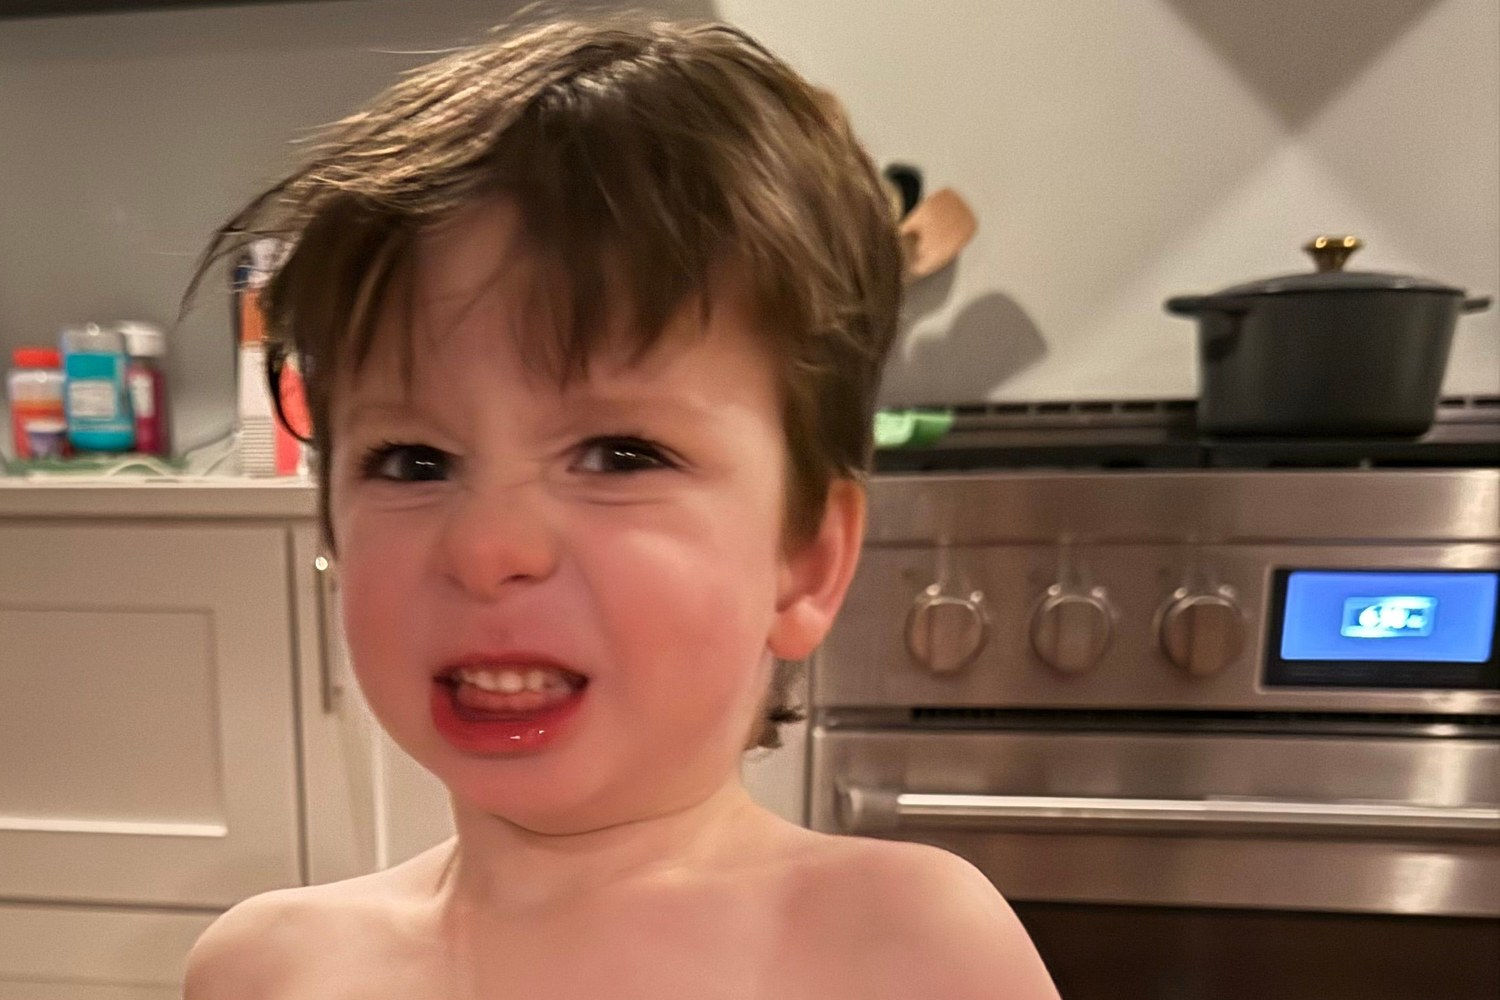
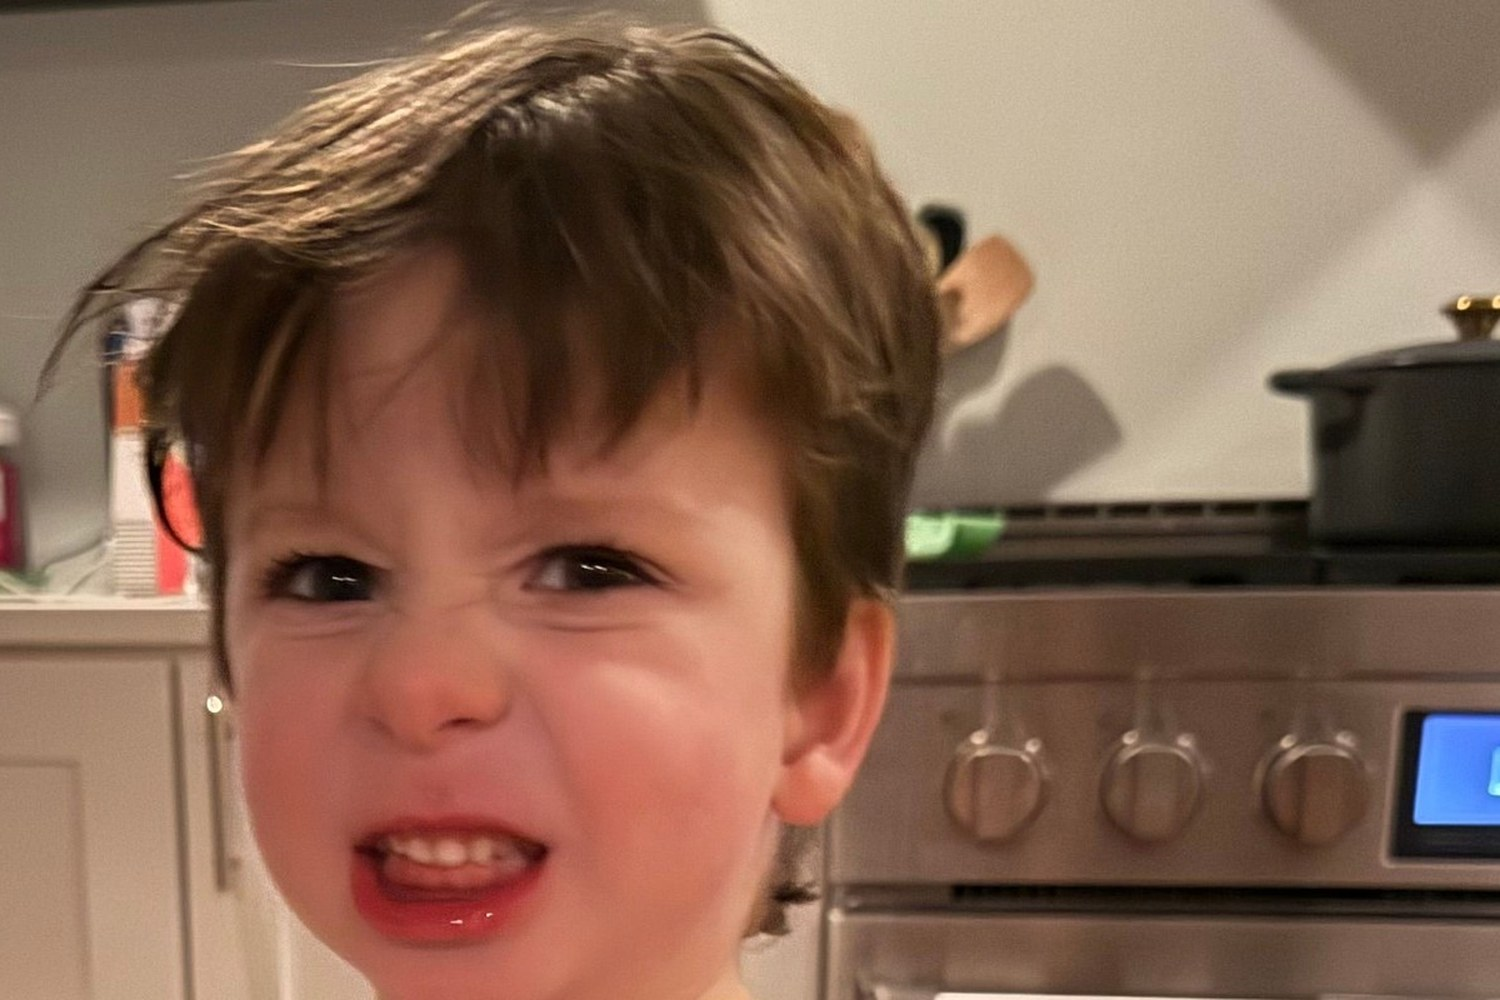
Nov 21 fixes: tighter drafts (qc quote and Niagara warnings), photo rule and re-cropped covers, stray named photo removed, form nudge
Claude-Session: https://claude.ai/code/session_01NmqwBVGBBmhPufvLAyoqtn

diff --git a/2026/10/24/index.html b/2026/10/24/index.html
@@ -20,7 +20,7 @@
   <div class="tile urg"><div class="v">10</div><div class="k">Days to Election Day</div></div>
 </div>
 <div class="plate-wrap"><div class="frame"><span class="tick tl"></span><span class="tick tr"></span><span class="tick bl"></span><span class="tick br"></span>
-<img src="/2026/10/24/plate.jpg?v=074aa30c" alt="A grinning little boy and a smiling man in glasses in a hot tub against a weathered wood wall"></div>
+<img src="/2026/10/24/plate.jpg?v=50ada00a" alt="A grinning little boy and a smiling man in glasses in a hot tub against a weathered wood wall"></div>
 <div class="plate-cap">Plate I &middot; The Family Album</div>
 <div class="plate-sub">Hot tub buddies</div></div>
 <div class="dbl-tight"><div class="a"></div><div class="b"></div></div>

diff --git a/2026/11/19/index.html b/2026/11/19/index.html
@@ -25,7 +25,7 @@
   <div class="tile urg"><div class="v">7</div><div class="k">Days to Thanksgiving</div></div>
 </div>
 <div class="plate-wrap"><div class="frame"><span class="tick tl"></span><span class="tick tr"></span><span class="tick bl"></span><span class="tick br"></span>
-<img src="/2026/11/19/plate.jpg?v=1bd27346" alt="A small boy in a kitchen scrunching up his face"></div>
+<img src="/2026/11/19/plate.jpg?v=e3ec82a3" alt="A small boy in a kitchen scrunching up his face"></div>
 <div class="plate-cap">Plate I &middot; The Family Album</div>
 <div class="plate-sub">An opinion, firmly held. Photo by Garret</div></div>
 <div class="part"><span>The News</span></div>

diff --git a/2026/09/14/index.html b/2026/09/14/index.html
@@ -21,7 +21,7 @@
 </div>
 <div class="dbl-tight"><div class="a"></div><div class="b"></div></div>
 <div class="plate-wrap"><div class="frame"><span class="tick tl"></span><span class="tick tr"></span><span class="tick bl"></span><span class="tick br"></span>
-<img src="/2026/09/14/plate.jpg?v=9b5b8a27" alt="Plate I"></div>
+<img src="/2026/09/14/plate.jpg?v=eee4523b" alt="Plate I"></div>
 <div class="plate-cap">Plate I &middot; The Family Album</div>
 <div class="plate-sub">A scone, held with both hands, most of it accounted for.</div></div>
 <h2 class="sec"><span class="o">&#9825;</span>Family Today<span class="o">&#9825;</span></h2>

diff --git a/tools/qc.py b/tools/qc.py
@@ -24,6 +24,26 @@ if ed:
         if 'class="bigtemp"' in s: fails.append('LAYOUT: no big temperature in the Weather Glass (the tile has it)')
         if '<span class="o">' in s.split('<h2 class="sec">',1)[-1].split('<div class="colo">')[0]: fails.append('LAYOUT: section heads are plain, no ornament spans')
         if 0 <= s.find('The Weather Glass') < s.find('The National Wire'): fails.append('LAYOUT: The News comes before The Almanac')
+    # Nov 21 (Garret: "do them all"): quotes and Niagara coverage, checked against the morning feed. Warnings only.
+    try:
+        _news = json.load(open(os.path.join(os.path.dirname(os.path.abspath(__file__)), '..', 'data', 'news.json')) if os.path.exists(os.path.join(os.path.dirname(os.path.abspath(__file__)), '..', 'data', 'news.json')) else open('site/data/news.json'))
+        _norm = lambda t: re.sub(r'\s+', ' ', re.sub(r'<[^>]+>', '', t).replace('&#8217;', "'").replace('&rsquo;', "'").replace('\u2019', "'").replace('\u2018', "'").replace('&amp;', '&').replace('\u201c', '"').replace('\u201d', '"')).lower().strip()
+        _bodies = _norm(' '.join((it.get('body') or '') + ' ' + it.get('title', '') for sec in _news['sections'].values() for it in sec))
+        _fam = s.split('From the Group Chat', 1)[-1][:600] if 'From the Group Chat' in s else ''
+        for q in [q for para in re.findall(r'<p[^>]*>(.*?)</p>|<div class="pull">(.*?)<br>', s, re.S) for t in para for q in re.findall(r'"([^"\n]+?)"', re.sub(r'<[^>]+>', '', t).replace('&quot;', '"').replace('\u201c', '"').replace('\u201d', '"'))]:
+            if len(q) < 25: continue
+            frag = _norm(q).strip(' .,')
+            if frag[:40] and frag[:40] in _norm(_fam): continue
+            _parts = [x.strip(' .,') for x in re.split(r'\.\.\.|\u2026', frag) if len(x.strip(' .,')) >= 10]
+            if not all(x[:40] in _bodies for x in _parts):
+                warns.append(f'QUOTE NOT IN FEED (check it word for word against the source): "{q[:70]}"')
+        _hw = s[s.find('The Home Wire'):s.find('<h2', s.find('The Home Wire') + 20)]
+        if not re.search(r'Niagara|Tonawanda|Lockport|Lewiston|Wheatfield', _hw):
+            _cut = (datetime.datetime.combine(dt, datetime.time(10)) - datetime.timedelta(hours=48)).isoformat()
+            _hits = [it['title'] for it in _news['sections'].get('local', []) if it.get('published', '') >= _cut and re.search(r'Niagara|Tonawanda|Lockport|Lewiston|Wheatfield', it['title'] + ' ' + (it.get('body') or '')[:600])]
+            if _hits: warns.append(f'NIAGARA: no Niagara County item in the Home Wire, but the feed has {len(_hits)}: ' + ' | '.join(h[:60] for h in _hits[:4]))
+    except Exception as _e:
+        warns.append(f'feed checks skipped: {_e}')
     # riddle: the answer must not have run before (Nov 12: an umbrella repeat got out)
     import glob as _g
     def _ans(html):

diff --git a/CLAUDE.md b/CLAUDE.md
@@ -49,6 +49,13 @@ Photos from other sources (e.g. ESPN, a police department) get credited in the c
 - **Never state a time or a number you did not look up.** Check `git log` for times; cut any clause without a source.
 - **Oct 4:** the dawn strip once used 3 a.m. temperatures. Dawn temps come from `forecast.json` → `towns[*].observation` (temp_f, text, ~6:45 a.m.).
 - **Nov 21:** Dunkirk's airport station (KDKK) reported sky but no temperature all morning, and the paper ran a dash; Garret asked for a number. When a town's observation has `temp_f` null, the cell runs that town's own NWS forecast low for the morning (the Overnight period), with the small line reading "forecast low" above the high. Never a dash, never another city's reading passed off as the town's.
+- **Nov 21, Garret: "What else could you be doing better... Do them all."** Standing fixes:
+  - **Tighter first drafts.** Before the review, check every quote word for word against its `body` and every attribution against the item's `source`; use the source's own verb strength ("said", not "admitted"). qc.py now warns on any quote of 25+ characters it can't find in news.json and on a Home Wire with no Niagara County item when the feed has one. Treat each warning as a fix or a deliberate call noted in the qc file.
+  - **Fix it before he sees it.** A gap (a dash for a missing number), a weak photo, a section that reads thin: fix it or hold it. Don't ship it and don't send him something you can see is poor; tell him only when a decision is his.
+  - **Do the editorial work unasked; ask before new machinery.** Features, graphics, covers and prep are the job. New feeds, workflows, scheduled tasks or pages need his OK first.
+  - **Short, plain messages.** One idea per line, no process talk.
+  - **Niagara first.** North Tonawanda, Tonawanda, Lockport and Niagara County get a real look every morning (Niagara Gazette and Lockport Journal are in the feed); run a Niagara item whenever there is a solid one.
+  - **Children's photos on public pages.** No shirtless or undressed child in a published cover: crop to head and shoulders, or don't run it. (Covers from Sep 14, Oct 24 and Nov 19 were re-cropped Nov 21.) Photos never sit in the repo under names; files are named by date or id.
 - **Week of Oct 13–21:** reviewers caught a backwards moon icon (waxing = lit on the **right**), "first frost" claims a prior edition contradicted, kickoff times without a source, and repeats from yesterday's paper reworded. Check each.
 
 ## Morning inputs

diff --git a/data/requests.md b/data/requests.md
@@ -5,6 +5,8 @@ When Garret asks for something in chat, add it here and push in the same turn.
 
 ## Standing
 
+- **Get more of the family writing in (Nov 21; only Gregg has used the form lately).** Every Wednesday, one sentence in Family Today inviting a specific person or two by name (rotate through the ten; never the same name two weeks running) to send something through the form, with the link: <a href="https://tally.so/r/rjxDpl">tally.so/r/rjxDpl</a>. The Sunday Question always ends with the same link. Thank anyone whose entry runs, by name, in that line.
+
 - **The Market, daily (Garret, Sat Nov 21, 9:16 and 9:19 p.m.: "keep tabs on the market, especially if it's a correction or bear"; then "No. Add a market graphic daily").** Every edition, in The News at the end of The National Wire, runs `<h2 class="sec">The Market</h2>` with the paper's S&P 500 chart and one or two plain sentences under it. Each build: dispatch `market.yml` first thing (about a minute), pull, then `cp site/tools/market_chart.py .` and `market_chart(json.load(open('site/data/market.json')), year=YYYY)` (switch to the trailing 12 months in January). FRED runs a day or two behind: the chart's caption must name the last day it shows, and the sentences give the latest close from that morning's market stories in news.json when it is newer, saying which day. Say where it stands against its peak every day, in plain words: under 10% below, "X% below its October high"; 10% to 20% below, a **correction** (explain the word); 20% or more, a **bear market** (explain it). The day it crosses 10% or 20%, or on a big move (2% or more in a day), it also gets a full National Wire item or the lead. Never advice. Keep `data/market.json` in the repo.
 
 - **No more Dana White (Garret, Nov 10: "I don't give a f--- about Dana White. That's 3 days in a row").** The story is dead; don't run it again in any form. **And no story runs more than two days, ever:** a follow-up ("Update:") is allowed once, the next day, only for something the family would bring up themselves (a verdict, a death, a storm, a Bills result). A celebrity or political sideshow never gets a second day. When in doubt, drop it.
